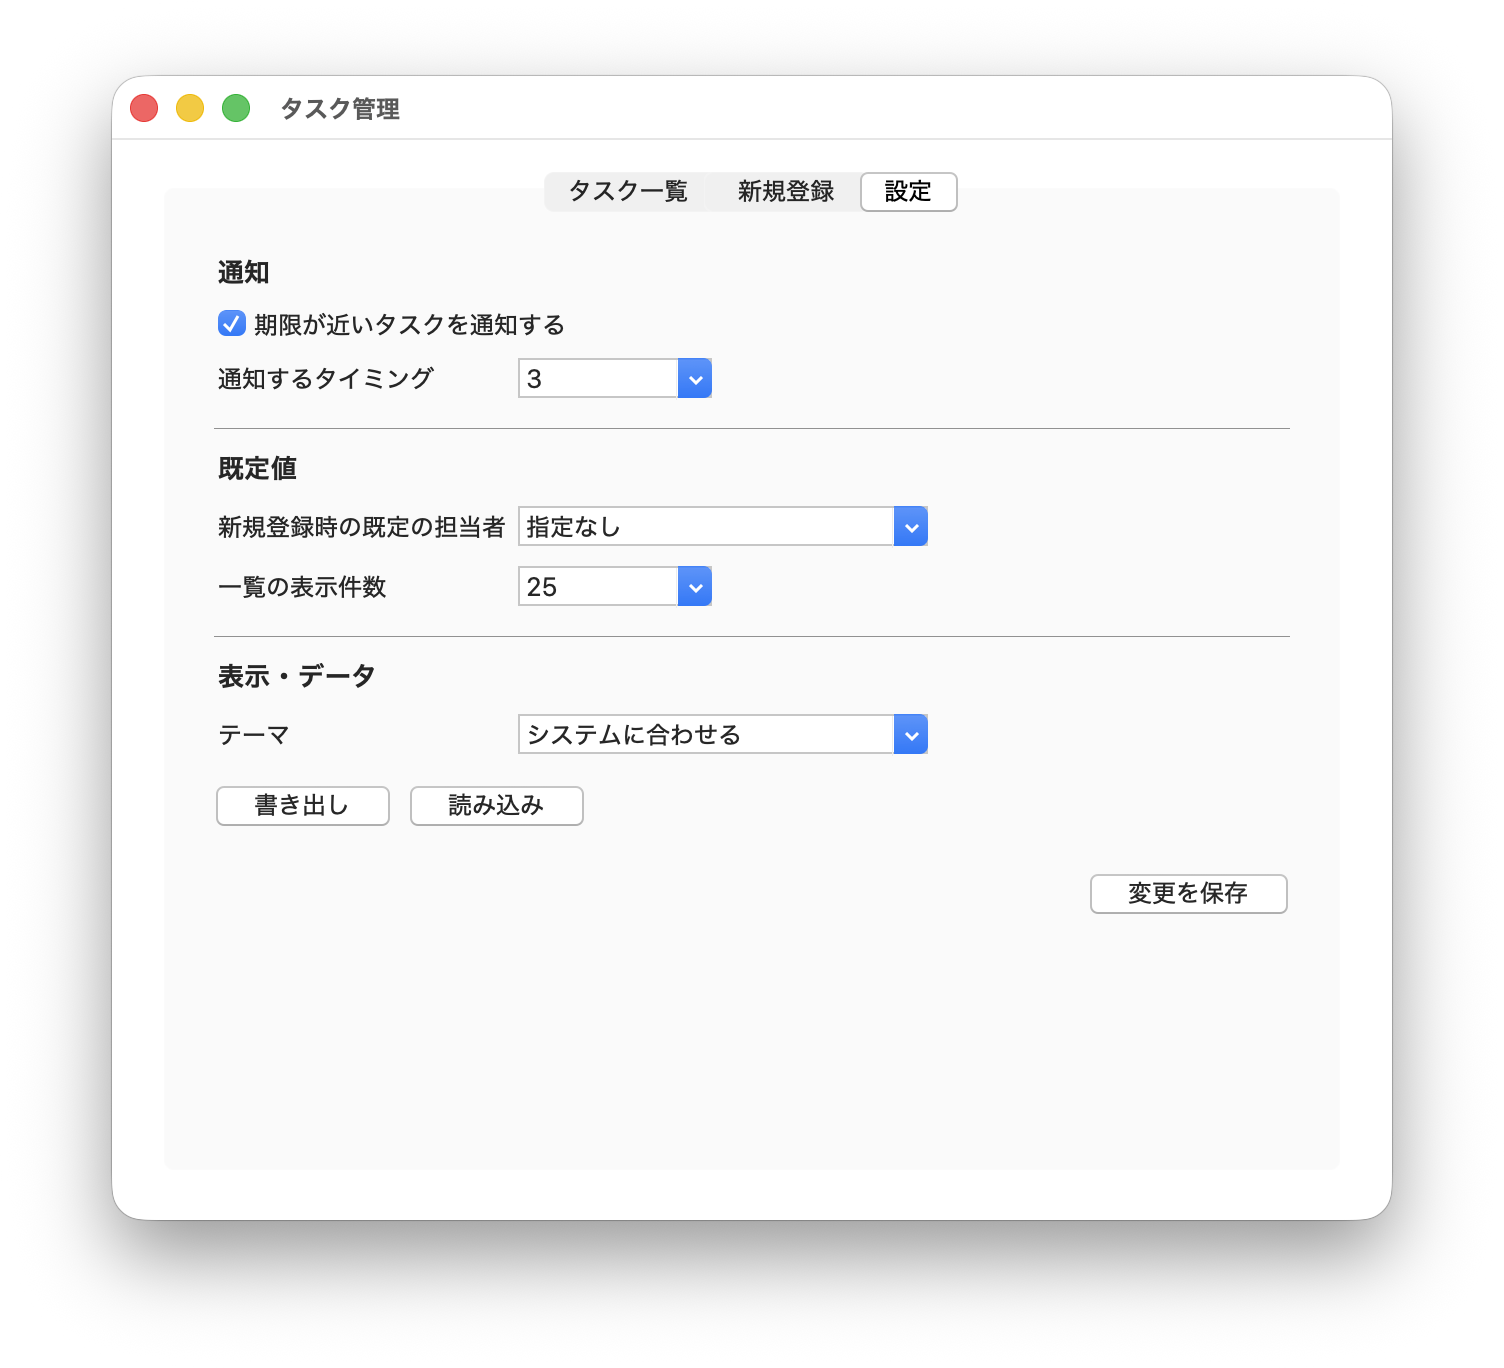
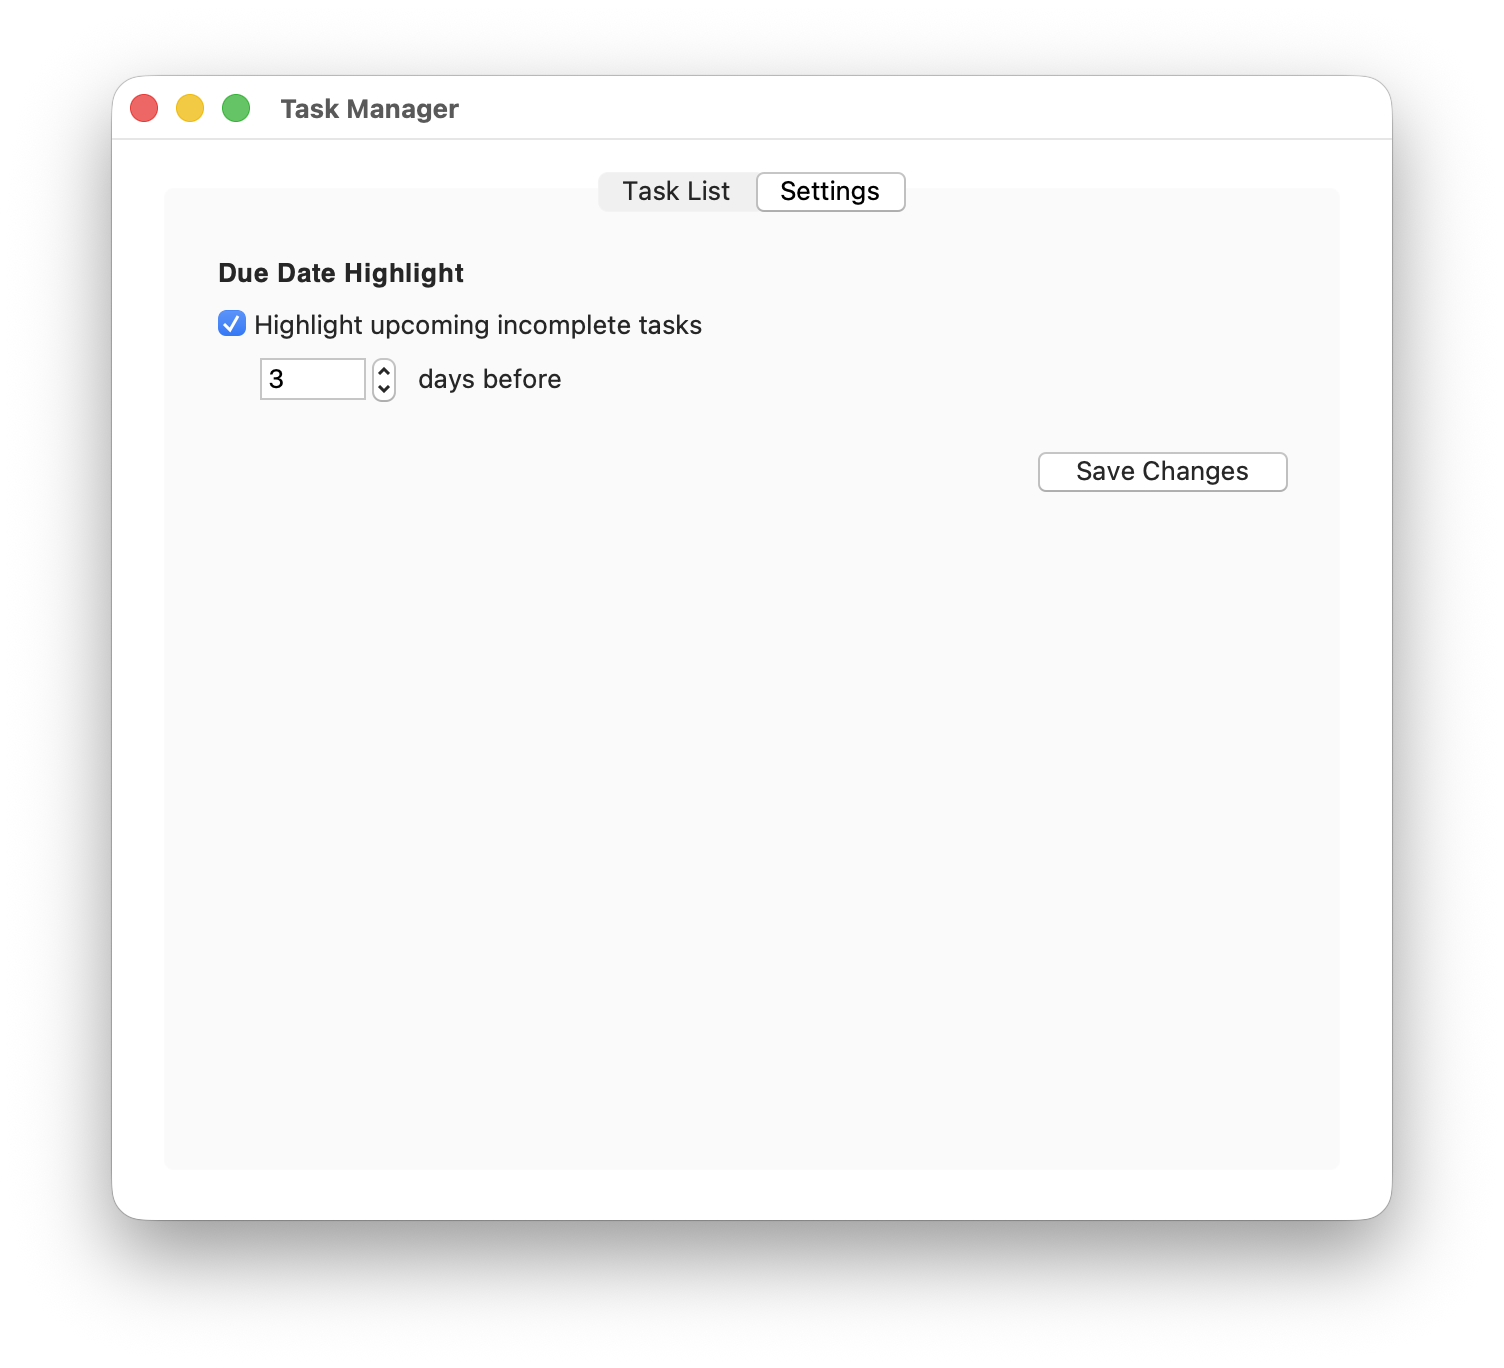
READMEをGUI英語化に合わせて更新
- スクリーンショットを新しい英語GUIのものに差し替え（タスク一覧・設定タブ）
- README_ja.md: 古い日本語UI文言の記述を、実際の英語UI文言（"+ Add"/"− Delete"/
  "Export"/"Import"等）に合わせて全面的に修正。機能一覧・責務表・データフロー節を更新
- README_en.md: 「New Task」タブ時代の古いスクリーンショット注記を削除。全角の
  ＋/－をコード上の実際の文字（+/−）に修正。機能一覧・責務表・データフロー節の
  内容を現状の実装（複数選択削除・空欄の末尾ソート・CSVボタンの位置・設定タブの
  期限ハイライトのみ等）に合わせて更新

diff --git a/README_en.md b/README_en.md
@@ -8,9 +8,6 @@ built around a more realistic, business-style, tabbed task-management app.
 
 ## Screenshots
 
-> ⚠ These are from an older version that still had a "New Task" tab. The app now has just two tabs
-> (Task List / Settings) as described below. Screenshots will be replaced once retaken.
-
 | Task List | Settings |
 |---|---|
 | ![Task list tab](docs/screenshots/task-list.png) | ![Settings tab](docs/screenshots/settings.png) |
@@ -31,18 +28,25 @@ to the MVP pattern (Model / View / Presenter).
     different month.
   - Click a column header to sort by that column; click it again to toggle ascending/descending (shown
     as ▲/▼ in the header). Priority and status sort by their meaningful order (low→mid→high,
-    not-started→...→overdue) rather than alphabetically.
-  - "＋ Add" and "－ Delete" buttons sit below the table, joined together and stretched to span the
+    not-started→...→overdue) rather than alphabetically. Tasks with a blank value in the sorted
+    column always sink to the bottom, regardless of sort direction.
+  - "+ Add" and "− Delete" buttons sit below the table, joined together and stretched to span the
     table's full width. There is no separate registration form.
-    - "＋ Add" appends a task with every field blank and selects it. Only the task name isn't left
+    - "+ Add" appends a task with every field blank and selects it. Only the task name isn't left
       blank — it gets a placeholder name like "Task N", where N is the task's own unique id (so the
       name never collides with a previous one, even after deletions). From there you fill in the
-      assignee, due date, priority, and status the same way as any other row: inline editing.
-    - "－ Delete" is only enabled when a row is selected. It shows a native confirmation alert
-      ("Are you sure you want to delete this?"); choosing "Yes" deletes the selected row.
-- **Settings tab**: configure notifications (on/off and timing), the list page size, and the theme.
-  - Changing a value shows "You have unsaved changes"; nothing is applied until "Save changes" is clicked.
-  - Tasks can be exported to a CSV file, or imported from one.
+      assignee, due date, priority, and status the same way as any other row: inline editing. The
+      existing rows' order (including any active sort result) is left untouched — the new task is
+      always appended at the very end.
+    - "− Delete" is only enabled when at least one row is selected. It supports multi-select
+      (Shift/Cmd-click), and deletes every selected row at once. It shows a native confirmation
+      alert; choosing "Yes" deletes the selected row(s).
+  - "Export" and "Import" buttons (below the "+ Add" button) export tasks to a CSV file, or import
+    them from one.
+- **Settings tab**: configures the due-date highlight (on/off, and how many days ahead to warn).
+  - Changing a value shows "Unsaved changes"; nothing is applied until "Save Changes" is clicked.
+  - This setting directly drives the due-date highlight on the task list (rows for tasks that are
+    overdue or due soon are shaded orange/red). Tasks with a "Done" status are excluded.
 
 Tabs and buttons deliberately keep the OS-native look (the default `ttk.Notebook` / `ttk.Button` style).
 
@@ -75,17 +79,19 @@ task_manager_tkinter/
 | Model | `csv_io` | Exports/imports tasks to/from CSV. Pure I/O functions. | none |
 | View (abstract) | `TaskListView` / `SettingsView` | Define the "contract" for each tab (rendering, reading input, registering handlers). | none |
 | View (impl) | `tk_main_window.py` (`TkTaskListFrame` / `TkSettingsFrame` / `TkMainWindow`) | Concrete implementation of the above abstractions using Tkinter (`ttk.Notebook` + standard widgets). | the View abstractions, tkinter |
-| Presenter | `TaskListPresenter` / `SettingsPresenter` | Holds the "screen behavior" logic for each tab: validation, updating the Model, tracking the list's sort state, and adding/deleting tasks. | the corresponding Model(s), the corresponding View (abstract only) |
+| Presenter | `TaskListPresenter` / `SettingsPresenter` | Holds the "screen behavior" logic for each tab: validation, updating the Model, tracking the list's sort state, adding/deleting tasks, CSV export/import, and determining the due-date highlight. `TaskListPresenter` also reads `SettingsModel` to get the highlight criteria (on/off, how many days ahead). | the corresponding Model(s) (`TaskListPresenter` depends on both `TaskModel` and `SettingsModel`), the corresponding View (abstract only) |
 
 Because each Presenter depends only on its View abstraction, swapping the View implementation (Tkinter / another GUI library / a fake View for testing) requires no change to the Presenter code.
 
-## Data Flow (clicking "＋ Add")
+## Data Flow (clicking "+ Add")
 
-1. The user clicks "＋ Add" on the "Task List" tab.
+1. The user clicks "+ Add" on the "Task List" tab.
 2. The handler registered with `TkTaskListFrame` (`TaskListPresenter.on_add_click`) is invoked.
 3. The Presenter calls `TaskModel.add_blank_task()`. The Model adds a task with every field blank,
    automatically filling the name with a placeholder like "Task N" using the id it just assigned.
 4. It calls `refresh()` to update the list, then `view.select_task(task.id)` to select the new row.
+   The existing rows' order (including any active sort result) is left untouched — only the new
+   task is appended at the end.
 5. The user double-clicks cells on that selected row to fill in the assignee, due date, priority, and
    status via the same inline-editing mechanism used for any other task.
 
